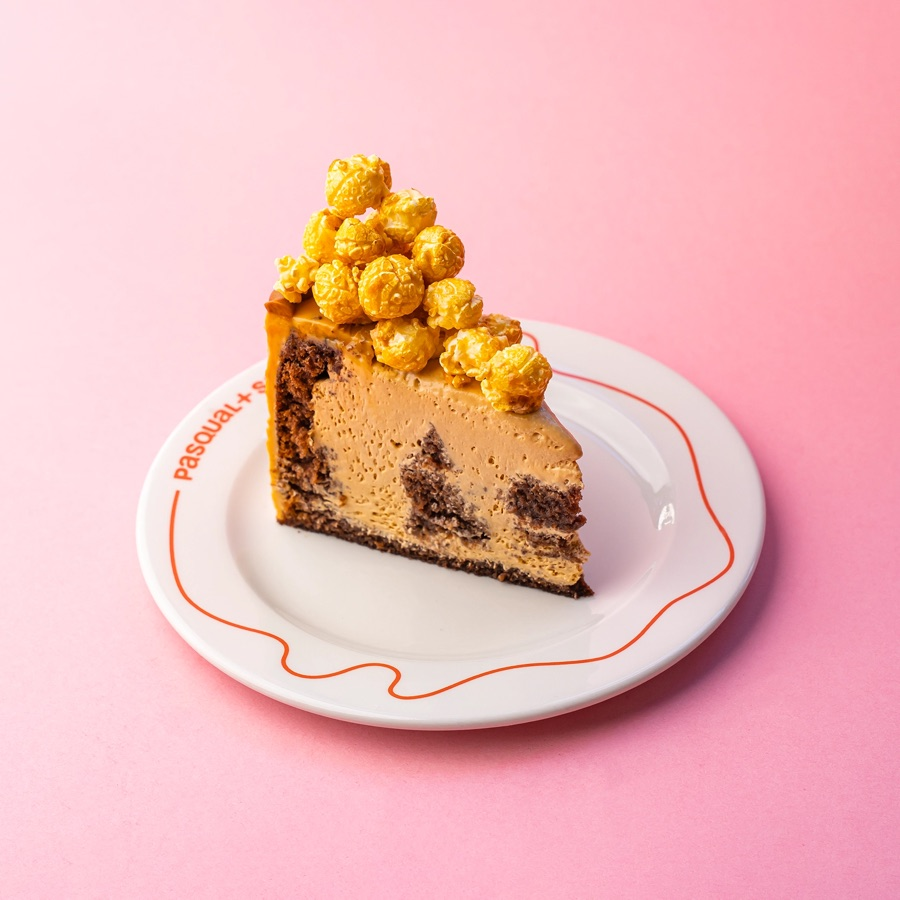
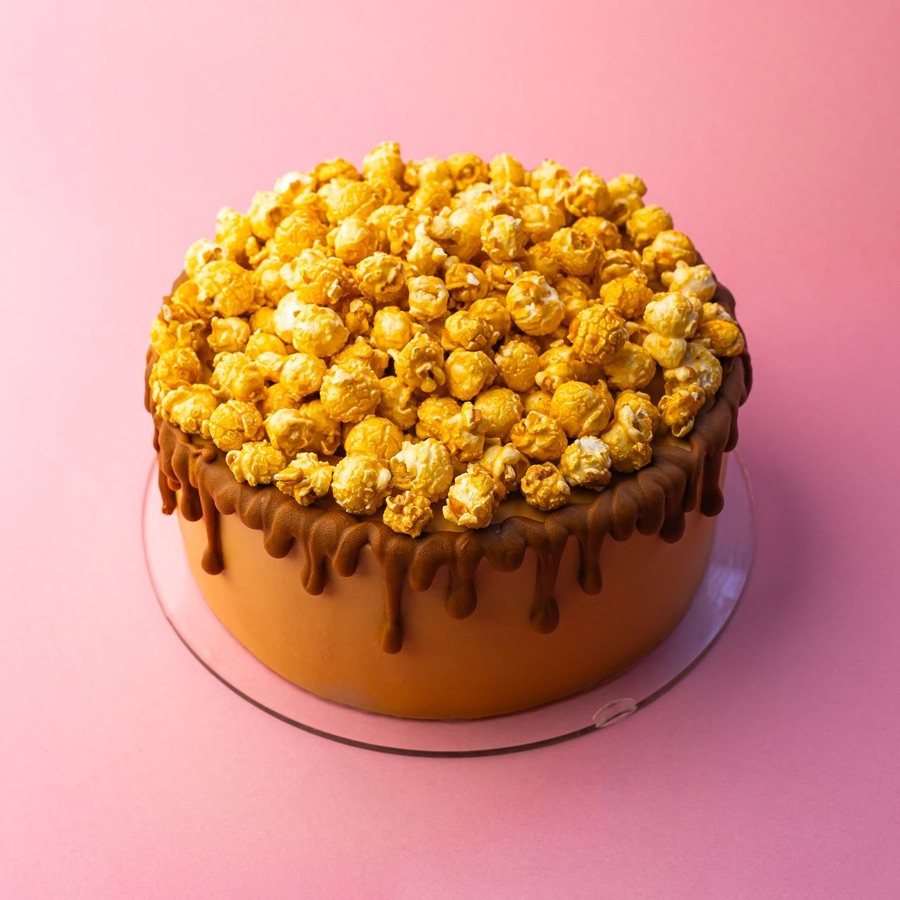
Фото торта «С амаретто», несколько фото на рецепт

diff --git a/index.html b/index.html
@@ -32,7 +32,7 @@ nav button{flex:1;border:0;background:none;color:var(--mute);font:600 15px/1.2 s
 nav button.on{color:var(--acc)}
 .foot{text-align:center;font-size:12px;color:var(--mute);margin-top:20px}
 button:focus-visible{outline:2px solid var(--acc);outline-offset:2px}
-details{background:var(--card);border:1px solid var(--line);border-radius:14px;padding:4px 14px;margin-bottom:10px}summary{cursor:pointer;padding:10px 0;font-weight:600}.yl{color:var(--mute);font-weight:400;font-size:14px}.row.pfrow{background:none;border:0;border-left:5px solid #e0902b;border-radius:4px;padding:10px 12px;margin:8px 0;cursor:pointer;font-weight:700}.pfrow .ar{font-size:22px;line-height:1}.hero{width:100%;max-height:340px;object-fit:cover;border-radius:14px;margin:10px 0 4px;display:block}.th{width:58px;height:58px;object-fit:cover;border-radius:10px;flex:none}select{font:600 17px system-ui;padding:10px 14px;border-radius:10px;border:1px solid var(--line);background:var(--card);color:var(--ink)}.grp{display:flex;align-items:center;gap:8px;margin:18px 0 8px;cursor:pointer;user-select:none}.grp span:first-child{font:600 18px Georgia,serif;flex:1}.grp small{color:var(--mute);background:var(--card);border:1px solid var(--line);border-radius:999px;padding:1px 8px;font-size:12px}.grp .arr{color:var(--acc);font-size:18px;width:18px;text-align:center}</style></head><body><div class="w"><header><h1 id="ttl"></h1><div class="lg" id="lg"></div></header><main id="app"></main><div class="foot" id="foot"></div></div><script>
+details{background:var(--card);border:1px solid var(--line);border-radius:14px;padding:4px 14px;margin-bottom:10px}summary{cursor:pointer;padding:10px 0;font-weight:600}.yl{color:var(--mute);font-weight:400;font-size:14px}.row.pfrow{background:none;border:0;border-left:5px solid #e0902b;border-radius:4px;padding:10px 12px;margin:8px 0;cursor:pointer;font-weight:700}.pfrow .ar{font-size:22px;line-height:1}.hero{width:100%;max-height:340px;object-fit:cover;border-radius:14px;margin:10px 0 4px;display:block}.th{width:58px;height:58px;object-fit:cover;border-radius:10px;flex:none}select{font:600 17px system-ui;padding:10px 14px;border-radius:10px;border:1px solid var(--line);background:var(--card);color:var(--ink)}.grp{display:flex;align-items:center;gap:8px;margin:18px 0 8px;cursor:pointer;user-select:none}.grp span:first-child{font:600 18px Georgia,serif;flex:1}.grp small{color:var(--mute);background:var(--card);border:1px solid var(--line);border-radius:999px;padding:1px 8px;font-size:12px}.grp .arr{color:var(--acc);font-size:18px;width:18px;text-align:center}.gal{display:flex;gap:8px;overflow-x:auto;scroll-snap-type:x mandatory;-webkit-overflow-scrolling:touch;margin:10px 0 4px}.gal .hero{flex:0 0 92%;scroll-snap-align:center;margin:0}</style></head><body><div class="w"><header><h1 id="ttl"></h1><div class="lg" id="lg"></div></header><main id="app"></main><div class="foot" id="foot"></div></div><script>
 // Адрес опубликованного Apps Script (Развернуть → Веб-приложение, ссылка на /exec).
 const API_URL='https://script.google.com/macros/s/AKfycbxGuzFCJt9PMY5l4gzpdGF41la6KpMUBCgGdG1N7cPuMCBELb_JZUxCwKKUVl_8xKVFGw/exec';
 const tg=window.Telegram&&window.Telegram.WebApp;
@@ -67,6 +67,9 @@ function calc(x,n){const need={},f={},L=allC(x),byId=Object.fromEntries(L.map(c=
  return{f,need}}
 const rows=(c,k,x)=>c.ings.map(g=>{const q=g.ref&&findC(x,g.ref);const pf=q&&['pf','sheet'].includes(q.kind);return `<div class="row${pf?' pfrow':''}" ${pf?`onclick="go({t:'pf',i:${R.indexOf(x)},id:'${g.ref}'})"`:''}><span>${phn(g.n[lg],1)}${g.note&&lg==1?`<br><small class="mute">${g.note}</small>`:''}</span><b>${g.a==null?'—':fa(g.a*k,g.u)}${pf?' <span class="ar">›</span>':''}</b></div>`}).join('');
 const steps=c=>c.steps.length?`<h2>${t('met')}</h2><ol>${c.steps.map(s=>`<li>${s[lg]}</li>`).join('')}</ol>`:'';
+// В столбце «Фото» можно перечислить несколько файлов через «;» — на главной первое, в рецепте листаются все.
+const imgs=s=>String(s||'').split(/\s*[;,]\s*/).filter(Boolean);
+const gallery=(s,alt)=>{const a=imgs(s);return a.length>1?`<div class="gal">${a.map(u=>img(u,'hero',alt)).join('')}</div>`:img(a[0],'hero',alt)};
 const img=(src,cls,alt)=>src?`<img class="${cls}" src="${src}" alt="${alt||''}" onerror="this.style.display='none'">`:'';
 // Группы на главной: название из столбца «Группа» (перевод для известных), состояние свёрнуто/раскрыто запоминается.
 const GN={'Торты':['Tartas','Торты','Cakes'],'Порционные десерты':['Postres individuales','Порционные десерты','Individual desserts'],'Мелкие десерты':['Pequeños dulces','Мелкие десерты','Small sweets'],'Джемы и кули':['Mermeladas y coulis','Джемы и кули','Jams and coulis'],'Бой-бой':['Boi-boi','Бой-бой','Boi-boi'],'Баночки Boiboi':['Boi-boi','Бой-бой','Boi-boi'],'Не в меню':['Fuera de carta','Не в меню','Off the menu']};
@@ -85,7 +88,7 @@ function r(){
  foot.textContent='';ttl.textContent=view.t==='list'?t('rec'):'';
  const back=`<button class="back" onclick="goBack()">${t('back')}</button>`;
  if(view.t==='list'){if(!R.length){app.innerHTML=`<div class="mute">${t('empty')}</div>`;return}
-  const card=(x,i)=>`<div class="card" onclick="go({t:'rec',i:${i}})">${x.img?img(x.img,'th'):`<span class="bar" style="background:#2f9d8a"></span>`}<div><b>${x.n[lg]}</b><small>${x.c[lg]}</small></div></div>`;
+  const card=(x,i)=>`<div class="card" onclick="go({t:'rec',i:${i}})">${x.img?img(imgs(x.img)[0],'th'):`<span class="bar" style="background:#2f9d8a"></span>`}<div><b>${x.n[lg]}</b><small>${x.c[lg]}</small></div></div>`;
   const groups=[];R.forEach((x,i)=>{const k=x.grp||x.c[1]||'—';let g=groups.find(g=>g.k===k);if(!g){g={k,items:[]};groups.push(g)}g.items.push(card(x,i))});
   const pfs=R.flatMap((x,i)=>x.comps.filter(c=>c.kind==='pf'||c.kind==='sheet').map(c=>`<div class="card" onclick="go({t:'pf',i:${i},id:'${c.id}'})"><span class="bar" style="background:#e0902b"></span><div><b>${cn(c)}</b><small>${x.n[lg]} · ${t('yl')} ${c.y?fa(c.y,'г'):c.cap+' '+U.pcs[lg]}</small></div></div>`));
   const go_=k=>{const i=GORD.indexOf(k);return i<0?GORD.indexOf('Не в меню')-0.5:i};groups.sort((a,b)=>go_(a.k)-go_(b.k));
@@ -105,7 +108,7 @@ function r(){
   app.innerHTML=`${back}<h1>${cn(c)}</h1><div class="mute">${x.n[lg]}</div><div class="yield"><span>${t('bt')}${c.y?' · '+t('yl')+' '+fa(c.y*B,'г'):c.cap?' · '+t('yl')+' '+capOf(x,c)*B+' '+U.pcs[lg]:''}</span><select onchange="B=+this.value;r()">${opts(Math.max(10,B),B)}</select></div>${rows(c,B,x)}${steps(c)}${c.yn&&lg==1?`<div class="mute" style="padding:8px 0">${c.yn}</div>`:''}${used.length?`<h2>${t('used')}</h2>${used.map(u=>`<div class="mute">${u}</div>`).join('')}`:''}`;return}
  const {f,need}=calc(x,N);
  const top=c=>x.comps.some(q=>q.kind!=='pf'&&q.ings.some(g=>g.ref===c.id));
- app.innerHTML=`${back}<h1>${x.n[lg]}</h1><div class="mute">${x.c[lg]}</div>${img(x.img,'hero',x.n[lg])}<div class="yield"><span>${x.kAmt?phn(x.kName[lg],1)+', '+U.g[lg]:t(isWeight(x)?'porW':isCake(x)?'porCake':'porQty')}</span>${isWeight(x)||x.kAmt?`<input type="number" inputmode="numeric" min="1" step="10" value="${Math.round(N)}" style="width:110px;font:600 17px system-ui;padding:10px 14px;border-radius:10px;border:1px solid var(--line);background:var(--card);color:var(--ink);text-align:right" onchange="N=Math.max(1,+this.value||N);r()">`:`<select onchange="N=+this.value;r()">${opts(60,N)}</select>`}</div>`+
+ app.innerHTML=`${back}<h1>${x.n[lg]}</h1><div class="mute">${x.c[lg]}</div>${gallery(x.img,x.n[lg])}<div class="yield"><span>${x.kAmt?phn(x.kName[lg],1)+', '+U.g[lg]:t(isWeight(x)?'porW':isCake(x)?'porCake':'porQty')}</span>${isWeight(x)||x.kAmt?`<input type="number" inputmode="numeric" min="1" step="10" value="${Math.round(N)}" style="width:110px;font:600 17px system-ui;padding:10px 14px;border-radius:10px;border:1px solid var(--line);background:var(--card);color:var(--ink);text-align:right" onchange="N=Math.max(1,+this.value||N);r()">`:`<select onchange="N=+this.value;r()">${opts(60,N)}</select>`}</div>`+
  [...(x.ext||[]).filter(top),...x.comps].map(c=>{const k=c.asm?1:f[c.id];
   if(c.kind==='pf'||c.kind==='sheet'){if(c.kind==='pf'&&!top(c))return '';const sm=c.cap?`${t('need')}: ${k} × ${capOf(x,c)} ${U.pcs[lg]}`:`${t('need')} ${fa(need[c.id]||0,'г')}`;return `<div class="card" onclick="go({t:'pf',i:${view.i},id:'${c.id}',b:${c.cap?k:1},n:${N}})"><span class="bar" style="background:#e0902b"></span><div><b>${cn(c)}</b><small>${sm} ›</small></div></div>`}
   const sub=c.asm?t('pl')+' 1 '+(isCake(x)?t('cake'):U.pcs[lg]):c.cap?'× '+k:c.y?t('yl')+' '+fa(c.y*k,'г'):t('pl')+' '+N+' '+U.pcs[lg];
